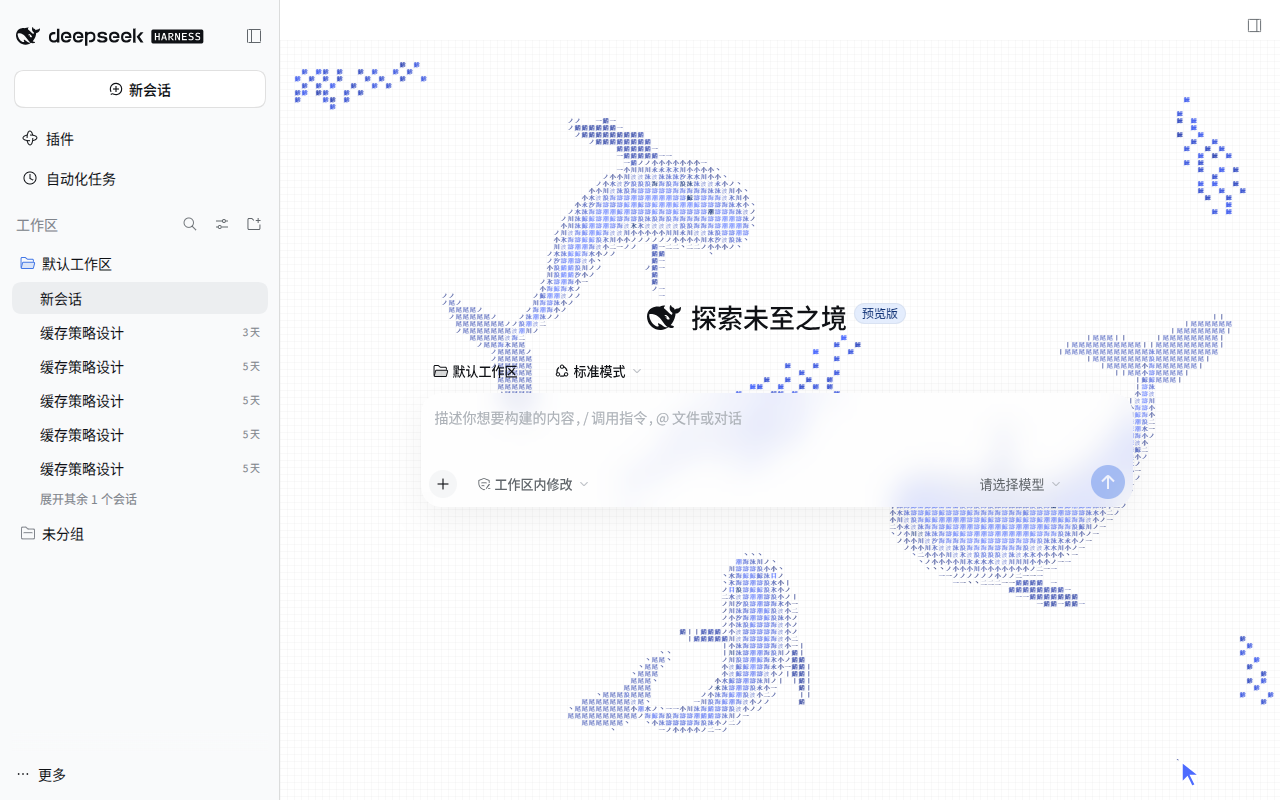
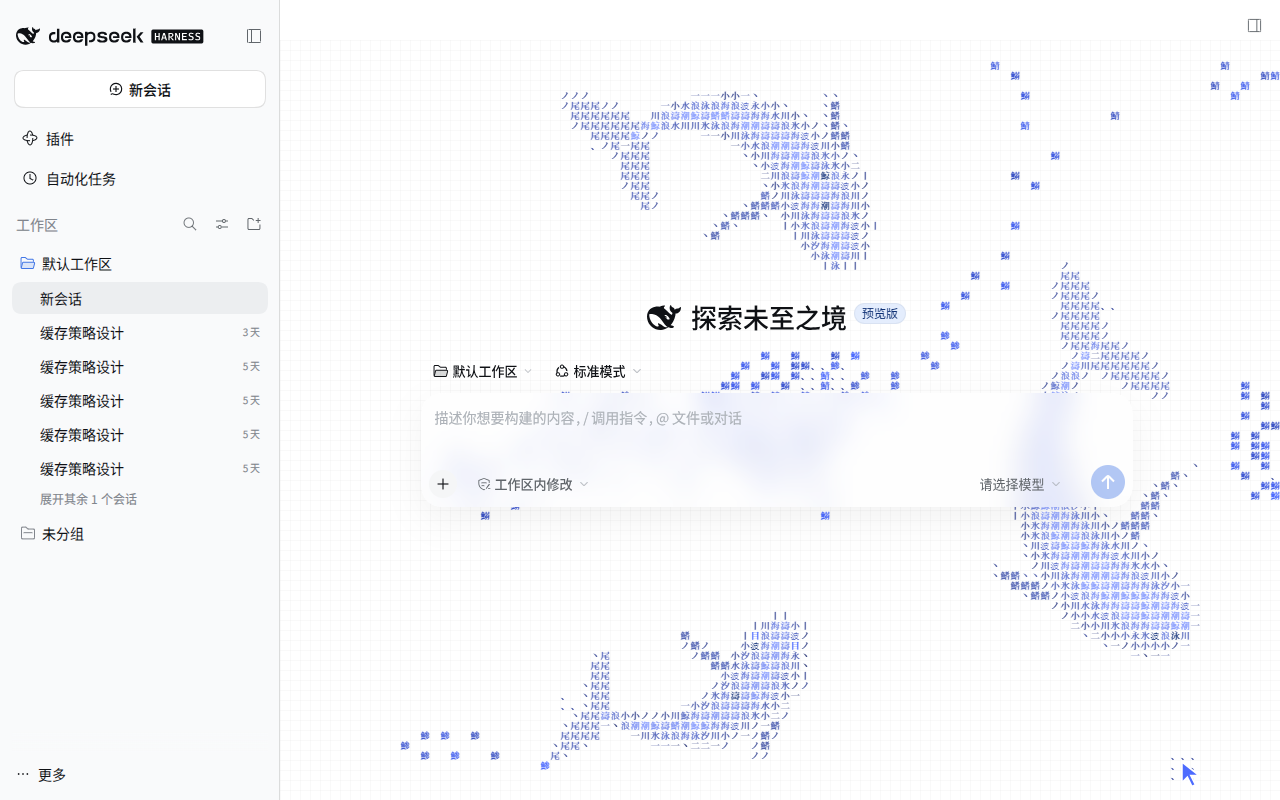
Add motion controls and fixed character cells for 0.1.5

diff --git a/vendor/ascii-sharks/engine.ts b/vendor/ascii-sharks/engine.ts
@@ -22,11 +22,14 @@ export class OceanEngine {
   private intersectionObserver: IntersectionObserver;
   private disposed = false;
 
-  constructor(private canvas: HTMLCanvasElement, sharks?: SharkSpec[], private speed = 1, dark = false, gridScale = 1, gridOpacity = .05, fishCount?: number, wake = 1, color = '#4d6bfe', glyphMode: 'ascii' | 'hanzi' | 'kanji' = 'ascii', colorfulShimmer = false, eyeColor: 'primary' | 'black' | 'white' = 'primary') {
+  constructor(private canvas: HTMLCanvasElement, sharks?: SharkSpec[], private speed = 1, dark = false, gridScale = 1, gridOpacity = .05, fishCount?: number, wake = 1, color = '#4d6bfe', glyphMode: 'ascii' | 'hanzi' | 'kanji' = 'ascii', colorfulShimmer = false, eyeColor: 'primary' | 'black' | 'white' = 'primary', bodySwing = 1, turnAgility = 1, tailFrequency = 1) {
     this.world = new World(sharks, fishCount);
     this.renderer = glyphMode === 'kanji' ? new Painter(canvas, gridScale) : new AsciiRenderer(canvas, dark, gridScale, gridOpacity, wake, glyphMode);
     if (this.renderer instanceof AsciiRenderer) this.renderer.setTheme(dark, gridOpacity, wake, color, colorfulShimmer, eyeColor);
     else this.renderer.setTheme(dark, gridOpacity, wake, color, eyeColor);
+    this.renderer.bodySwing = bodySwing;
+    this.world.turnAgility = turnAgility;
+    this.world.tailFrequency = tailFrequency;
     this.renderer.setFontFamily(getComputedStyle(canvas).fontFamily);
     this.reducedMotion = window.matchMedia("(prefers-reduced-motion: reduce)");
 
@@ -68,8 +71,11 @@ export class OceanEngine {
     document.removeEventListener("visibilitychange", this.scheduleVisibility);
   }
 
-  setAppearance(speed: number, dark: boolean, gridOpacity = .05, wake = 1, color = '#4d6bfe', colorfulShimmer = false, eyeColor: 'primary' | 'black' | 'white' = 'primary') {
+  setAppearance(speed: number, dark: boolean, gridOpacity = .05, wake = 1, color = '#4d6bfe', colorfulShimmer = false, eyeColor: 'primary' | 'black' | 'white' = 'primary', bodySwing = 1, turnAgility = 1, tailFrequency = 1) {
     this.speed = speed;
+    this.renderer.bodySwing = bodySwing;
+    this.world.turnAgility = turnAgility;
+    this.world.tailFrequency = tailFrequency;
     if (this.renderer instanceof AsciiRenderer) this.renderer.setTheme(dark, gridOpacity, wake, color, colorfulShimmer, eyeColor);
     else this.renderer.setTheme(dark, gridOpacity, wake, color, eyeColor);
     if (this.reducedMotion.matches) this.drawStill();
@@ -100,7 +106,8 @@ export class OceanEngine {
     let steps = 0;
     const maxSteps = Math.ceil(MAX_STEPS * Math.max(1, this.speed));
     while (this.acc >= STEP && steps < maxSteps) {
-      this.world.step(STEP);
+      // Keep tail rhythm in wall time, calibrated to the original 0.65x cruise.
+      this.world.step(STEP, STEP * 0.65 / this.speed);
       this.acc -= STEP;
       steps++;
     }
@@ -116,7 +123,7 @@ export class OceanEngine {
   /** Reduced motion: let the ecosystem settle, then show a single frame. */
   private drawStill() {
     if (this.world.time < 4) {
-      for (let i = 0; i < 240; i++) this.world.step(STEP);
+      for (let i = 0; i < 240; i++) this.world.step(STEP, STEP * 0.65 / this.speed);
     }
     this.render(STEP);
   }

diff --git a/vendor/ascii-sharks/world.ts b/vendor/ascii-sharks/world.ts
@@ -86,6 +86,8 @@ const FISH_FLEE_K = 1100;
 const BLIND_COS = -0.6; // ~127° either side of the heading is visible
 
 export class World {
+  turnAgility = 1;
+  tailFrequency = 1;
   width = 0;
   height = 0;
   time = 0;
@@ -225,11 +227,11 @@ export class World {
     }
   }
 
-  step(dt: number) {
+  step(dt: number, beatDt = dt) {
     this.time += dt;
     this.rebuildHash();
     this.stepFish(dt);
-    this.stepSharks(dt);
+    this.stepSharks(dt, beatDt);
     this.respawn();
   }
 
@@ -456,7 +458,7 @@ export class World {
     }
   }
 
-  private stepSharks(dt: number) {
+  private stepSharks(dt: number, beatDt: number) {
     const { sharks, width: W, height: H, time } = this;
     const minSide = Math.min(W, H);
     const cxW = W / 2;
@@ -550,7 +552,7 @@ export class World {
       const desired = Math.atan2(dy, dx);
       // Sharks can't pivot on the spot: the turning circle grows with speed.
       const agility = Math.min(hunting ? 1.7 + closing : 0.8, sh.speed / (L * 0.22));
-      const maxTurn = agility * dt;
+      const maxTurn = agility * this.turnAgility * dt;
       const turned = clamp(angleDiff(sh.heading, desired), -maxTurn, maxTurn);
       sh.heading += turned;
       sh.turn += (turned / dt - sh.turn) * Math.min(1, dt * 3);
@@ -558,7 +560,7 @@ export class World {
       const cruise = 30 + L * 0.04;
       const targetSpeed = hunting ? cruise * (1.45 + closing * 1.5) : cruise;
       sh.speed += (targetSpeed - sh.speed) * Math.min(1, dt * 1.1);
-      sh.phase += dt * (2 + sh.speed / 24);
+      sh.phase += beatDt * this.tailFrequency * (2 + (30 + L * 0.04) / 24);
 
       nodes[0] += Math.cos(sh.heading) * sh.speed * dt;
       nodes[1] += Math.sin(sh.heading) * sh.speed * dt;
@@ -566,7 +568,7 @@ export class World {
       // Follow-the-leader spine, with a stiffness limit per joint so the
       // body bends into a C at most and never folds back on itself.
       const seg = L / (SHARK_NODES - 1);
-      const maxBend = 0.16;
+      const maxBend = 0.16 * this.turnAgility;
       let prevAngle = sh.heading + Math.PI;
       for (let k = 1; k < SHARK_NODES; k++) {
         const px = nodes[(k - 1) * 2];

diff --git a/src/client.tsx b/src/client.tsx
@@ -9,7 +9,7 @@ import { mountBackgrounds } from './background.mjs'
 
 const en = {
   title: 'ASCII Whales', description: 'Let whales drift through the quiet, and thoughts rise to the surface.',
-  enabled: 'Show ocean', count: 'Whale count', speed: 'Swimming speed', size: 'Whale size', opacity: 'Opacity',
+  enabled: 'Show ocean', count: 'Whale count', speed: 'Swimming speed', bodySwing: 'Body swing amplitude', turnAgility: 'Turning agility', tailFrequency: 'Tail-beat frequency', size: 'Whale size', opacity: 'Opacity',
   species: 'Whale species', humpback: 'Humpback', orca: 'Orca',
   eyeColor: 'Eye background', primary: 'Follow main color', black: 'Black', white: 'White',
   colorfulShimmer: 'Colorful shimmer', shimmerHint: 'ASCII / Hanzi only. Off: shades of your selected color. On: original seven-color accents.',
@@ -27,7 +27,7 @@ const en = {
 }
 const zh: typeof en = {
   title: 'ASCII 鲸鱼', description: '让鲸群游过留白，让思绪慢慢浮出水面。',
-  enabled: '显示海洋', count: '鲸鱼数量', speed: '游动速度', size: '鲸鱼大小', opacity: '透明度',
+  enabled: '显示海洋', count: '鲸鱼数量', speed: '游动速度', bodySwing: '身体摆动幅度', turnAgility: '转弯灵活度', tailFrequency: '摆尾频率', size: '鲸鱼大小', opacity: '透明度',
   species: '鲸鱼种类', humpback: '座头鲸', orca: '虎鲸',
   eyeColor: '眼睛底色', primary: '跟随主色', black: '黑色', white: '白色',
   colorfulShimmer: '彩色闪烁', shimmerHint: '适用于 ASCII / 汉字。关闭时使用主色深浅，开启后使用原版七色点缀。',

diff --git a/vendor/ascii-kanji-sharks/painter.js b/vendor/ascii-kanji-sharks/painter.js
@@ -62,8 +62,9 @@ export class Painter {
   constructor(canvas, gridScale = 1) {
     this.shape = humpback;
     this.gridScale = gridScale;
+    this.bodySwing = 1;
     // shortcut: keep cells at least 4 px for legibility and raster cost; revisit for finer grids.
-    this.cell = cellSize(0, gridScale, true)[0];
+    this.cell = cellSize(gridScale, true)[0];
     this.wake = 1;
     this.canvas = canvas;
     this.ctx = canvas.getContext("2d", { alpha: true });
@@ -113,7 +114,7 @@ export class Painter {
   }
 
   resize(width, height, dpr) {
-    const cell = cellSize(width, this.gridScale, true)[0];
+    const cell = cellSize(this.gridScale, true)[0];
     this.width = width;
     this.height = height;
     this.cell = cell;
@@ -261,7 +262,7 @@ export class Painter {
       const tl = Math.hypot(tx, ty) || 1;
       tx /= tl;
       ty /= tl;
-      const off = L * 0.05 * (0.1 + 0.9 * Math.pow(s, 1.8)) * beat * Math.sin(sh.phase - s * 5.2);
+      const off = L * 0.05 * (0.1 + 0.9 * Math.pow(s, 1.8)) * beat * this.bodySwing * Math.sin(sh.phase - s * 5.2);
       spine[k * 2] = n[k * 2] - ty * off;
       spine[k * 2 + 1] = n[k * 2 + 1] + tx * off;
     }

diff --git a/vendor/ascii-sharks/renderer.ts b/vendor/ascii-sharks/renderer.ts
@@ -272,6 +272,7 @@ export function paintGrid(g: CanvasRenderingContext2D, W: number, H: number, cw:
 }
 
 export class AsciiRenderer {
+  bodySwing = 1;
   private ctx: CanvasRenderingContext2D;
   private bg: HTMLCanvasElement;
   private dpr = 1;
@@ -374,7 +375,7 @@ export class AsciiRenderer {
     this.width = width;
     this.height = height;
     this.dpr = dpr;
-    [this.cw, this.ch] = cellSize(width, this.gridScale, this.glyphMode === 'hanzi');
+    [this.cw, this.ch] = cellSize(this.gridScale, this.glyphMode === 'hanzi');
     this.cols = Math.ceil(width / this.cw);
     this.rows = Math.ceil(height / this.ch);
 
@@ -696,7 +697,7 @@ export class AsciiRenderer {
         const tl = Math.hypot(tx, ty) || 1;
         tx /= tl;
         ty /= tl;
-        const amp = L * 0.05 * (0.1 + 0.9 * Math.pow(s, 1.8)) * swim;
+        const amp = L * 0.05 * (0.1 + 0.9 * Math.pow(s, 1.8)) * swim * this.bodySwing;
         const off = amp * Math.sin(sh.phase - s * 5.2);
         spine[k * 2] = n[k * 2] - ty * off;
         spine[k * 2 + 1] = n[k * 2 + 1] + tx * off;

diff --git a/vendor/ascii-sharks/cells.ts b/vendor/ascii-sharks/cells.ts
@@ -1,6 +1,6 @@
 /** Equal cell area keeps grain density similar while full-width glyphs stay square. */
-export function cellSize(width: number, scale: number, square: boolean) {
-  const cw = Math.max(1, Math.round(Math.min(13, Math.max(8, Math.round(width / 124))) * scale));
+export function cellSize(scale: number, square: boolean) {
+  const cw = Math.max(1, Math.round(8 * scale));
   const ch = Math.round(cw * 1.45);
   const side = Math.max(4, Math.round(Math.sqrt(cw * ch)));
   return square ? [side, side] : [cw, ch];

diff --git a/README.md b/README.md
@@ -38,7 +38,7 @@ dsh plugin --profile web add dsh-ascii-whales
 
 使用 DSH 官方的设置页、按钮、输入框与开关。颜色区提供可视化色块及系统选色器，选色后即时生效。
 
-也可以让汉字入海：**设置 → ASCII 鲸鱼 → 字符风格 → 汉字**。吻部落“吻”，眼睛落“目”，背部落“背”，胸鳍与背鳍落“鳍”，尾鳍落“尾”；其余鲸身由水、海、潮、鲸等字铺开，小鱼化作鱼字旁的游字。字随身体弯曲转向。三种样式按近似相同的字符格面积校准颗粒感：ASCII 保留窄格，汉字与 Kanji 使用方格，并随画布宽度一起调整；仍可用“字符栅格”调节。
+也可以让汉字入海：**设置 → ASCII 鲸鱼 → 字符风格 → 汉字**。吻部落“吻”，眼睛落“目”，背部落“背”，胸鳍与背鳍落“鳍”，尾鳍落“尾”；其余鲸身由水、海、潮、鲸等字铺开，小鱼化作鱼字旁的游字。字随身体弯曲转向。三种样式按近似相同的字符格面积校准颗粒感：ASCII 保留窄格，汉字与 Kanji 使用方格，采用固定 CSS 像素尺寸，不随窗口宽度变化。1× 时 ASCII 为 8×12 px，汉字与 Kanji 为 10×10 px；仍可用“字符栅格”调节。
 
 英文默认内置 **Geist Mono 600**，与原项目演示一致；汉字默认内置 **思源宋体**。两套字体用于动画，随插件离线加载。切换“字体 → 本机自定义”，可分别填写已安装的中英文字体名称，例如 `Consolas`、`方正屏显雅宋简体`。
 
@@ -64,8 +64,11 @@ dsh plugin --profile web add dsh-ascii-whales
 | 鲸鱼数量 | 3 | 1–20 |
 | 鲸鱼大小 | 1.2 倍 | 0.1–10 倍，保留个体大小差异 |
 | 游动速度 | 0.65 倍 | 0.1–10 倍 |
+| 身体摆动幅度 | 0.8 倍 | 0–3 倍；0 关闭身体波动，仍会沿转弯路径弯身 |
+| 转弯灵活度 | 0.7 倍 | 0.1–3 倍；越高越容易弯身掉头 |
+| 摆尾频率 | 0.8 倍 | 0.1–5 倍；独立于游动速度 |
 | 动画透明度 | 1 | 0–1；1 为完全不透明 |
-| 字符栅格 | 0.8 倍 | 0.1–10 倍；越大越有颗粒感 |
+| 字符栅格 | 1 倍 | 0.1–10 倍；越大越有颗粒感 |
 | 底纹网格透明度 | 0.05 | 0–1；0 隐藏底纹 |
 | 小鱼数量 | 170 | 0–1000；0 隐藏小鱼 |
 | 尾迹强度 | 1 | 0–10；0 隐藏扩散尾迹 |

diff --git a/docs/development.md b/docs/development.md
@@ -28,7 +28,7 @@ node scripts/browser-check.mjs --record
 
 Requires Edge, Playwright, ffmpeg and ffprobe. The instance file contains `{ "url": "..." }`. Keep token-bearing instance files and logs local. Never use the everyday Desktop profile for recording or automated UI experiments.
 
-Recordings use a 1280×800 viewport and export 960×600, 15 fps looping GIFs with pointer/click cues. The nine scenes cover ASCII, Hanzi and Kanji in light/dark themes, settings, the local font picker and Humpback → Orca switching in ASCII / Kanji. All nine scenes use the current defaults: swim speed 0.65×, whale size 1.2× and character grid 0.8×. Settings and font-picker demos use ASCII mode; other controls change only to demonstrate their features. Recording assertions check the default speed and sizes and restore defaults at the end. The recording context grants local-font access to its isolated browser context and selects installed Consolas/SimSun fonts. Inspect both themes and settings captures after every visual change. `docs/media/manifest.json` records segment timing and character modes. User and agent data are not suitable public fixtures.
+Recordings use a 1280×800 viewport and export 960×600, 15 fps looping GIFs with pointer/click cues. The nine scenes cover ASCII, Hanzi and Kanji in light/dark themes, settings, the local font picker and Humpback → Orca switching in ASCII / Kanji. All nine scenes use the current defaults: body swing 0.8×, turning agility 0.7×, tail-beat frequency 0.8×, swim speed 0.65×, whale size 1.2× and character grid 1× (fixed CSS pixel baseline). Settings and font-picker demos use ASCII mode; other controls change only to demonstrate their features. Recording assertions check the default speed and sizes and restore defaults at the end. The recording context grants local-font access to its isolated browser context and selects installed Consolas/SimSun fonts. Inspect both themes and settings captures after every visual change. `docs/media/manifest.json` records segment timing and character modes. User and agent data are not suitable public fixtures.
 
 ## Automated releases
 

diff --git a/docs/releases/0.1.5.md b/docs/releases/0.1.5.md
@@ -1,0 +1,27 @@
+固定字符颗粒，自由调节鲸鱼游姿。
+
+- 字符栅格采用固定 CSS 像素尺寸，调整窗口不再改变颗粒大小；默认栅格为 **1×**。
+- 新增身体摆动幅度（0–3）、转弯灵活度（0.1–3）、摆尾频率（0.1–5），支持 ASCII、汉字和 Kanji。
+- 默认摆动幅度 **0.8**、转弯灵活度 **0.7**、摆尾频率 **0.8**；摆尾节奏独立于前进速度。
+- 游动速度保持 **0.65**、鲸鱼大小 **1.2**；全部 9 个 GIF 按新默认值重录。
+- 已有偏好保留，点击“恢复默认”应用新参数。
+
+Fixed character grain, with adjustable whale movement.
+
+- Cells use fixed CSS-pixel sizes independent of window width; default grid scale is **1×**.
+- Added body swing amplitude (0–3), turning agility (0.1–3) and tail-beat frequency (0.1–5) across ASCII, Hanzi and Kanji.
+- Defaults are **0.8 / 0.7 / 0.8** respectively. Tail rhythm is independent of travel speed.
+- Swimming speed remains **0.65** and whale size **1.2**; all nine GIFs were re-recorded with the new defaults.
+- Existing preferences are preserved. Choose **Restore defaults** to apply the new values.
+
+验证 / Validation: typecheck, build and 10 tests pass. Isolated Edge checks cover motion controls, persistence and reset; all nine recordings pass with zero browser page errors. Desktop and other browsers were not tested.
+
+安装 / Install:
+
+```sh
+dsh plugin --profile web add dsh-ascii-whales@0.1.5
+```
+
+Desktop 请通过客户端插件管理更新。For Desktop, update through the client plugin manager.
+
+感谢 / Thanks to [stackedlol](https://github.com/stackedlol/ascii-sharks) and [michikusa404](https://github.com/michikusa404/ascii-kanji-sharks).

diff --git a/README.en.md b/README.en.md
@@ -54,8 +54,11 @@ Humpbacks retain long flippers and broad flukes. Orcas have a broader rounded he
 | Whales | 3 | 1–20 |
 | Size | 1.2× | 0.1–10× |
 | Speed | 0.65× | 0.1–10× |
+| Body swing amplitude | 0.8× | 0–3×; zero removes body waves, while the spine still follows turns |
+| Turning agility | 0.7× | 0.1–3×; higher values allow tighter turns |
+| Tail-beat frequency | 0.8× | 0.1–5×; independent of swimming speed |
 | Scene opacity | 1 | 0–1; 1 is fully opaque |
-| Cell size | 0.8× | 0.1–10× |
+| Cell size | 1× | 0.1–10× |
 | Background grid opacity | 0.05 | 0–1 |
 | Small fish | 170 | 0–1000 |
 | Wake intensity | 1 | 0–10 |
@@ -97,4 +100,4 @@ All three styles support visibility, count, size, speed, opacity, cell size, gri
 
 Kanji shares the stackedlol/ascii-sharks simulation, pursuit, turning and body wave with ASCII / Hanzi, retaining the whale silhouette with Kanji shading and text effects.
 
-Character cells use comparable areas across styles: ASCII retains narrow cells, while Hanzi and Kanji share square cells that respond to canvas width. The same multiplier gives similar grain density; full-width cells retain a 4 px minimum.
+Character cells use comparable areas across styles: ASCII retains narrow cells, while Hanzi and Kanji share square cells. Cell sizes are fixed in CSS pixels, independent of window width: at 1×, ASCII uses 8×12 px and Hanzi/Kanji use 10×10 px. The same multiplier gives similar grain density; full-width cells retain a 4 px minimum.

diff --git a/docs/validation.md b/docs/validation.md
@@ -1,3 +1,11 @@
+# 0.1.5 validation · 2026-10-22
+
+- Fixed CSS-pixel cell sizes across window resizing. Default grid scale: 1.
+- Added body swing, turning agility and independent tail-beat frequency controls; defaults: 0.8 / 0.7 / 0.8. Other numeric defaults match the approved settings screenshot.
+- Typecheck, build and 10 tests pass, including motion ranges, amplitude rendering, turning response and tail rhythm independent of travel speed. Isolated Edge checks cover all three styles, saved motion settings and reset.
+- All nine scenes were recorded with the new motion defaults; recording and reset assertions pass with zero browser page errors. See `media/manifest.json` and `media/checks.json` for current media evidence.
+- Desktop and other browsers: NOT_RUN. Publication is verified separately through the release workflow.
+
 # 0.1.4 validation · 2026-10-22
 
 - Calibrated ASCII/Hanzi/Kanji cell density and changed defaults to speed 0.65, size 1.2 and grid scale 0.8. Existing saved preferences are preserved.
